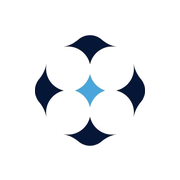
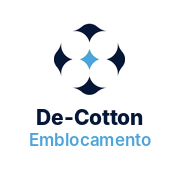
Ícone com De-Cotton / Emblocamento
Claude-Session: https://claude.ai/code/session_01Nmf84eCDdGJfLBLhLhZPr3

Changed region(s): [[0.1667, 0.3611, 0.8611, 0.8333], [0.2778, 0.1111, 0.6944, 0.4167]]

diff --git a/index.html b/index.html
@@ -78,7 +78,7 @@ main{padding:12px;max-width:640px;margin:0 auto;padding-bottom:40px}
 </style>
 </head>
 <body>
-<header><h1><img src="icon-180.png" alt="" class="hlogo">Emblocamento<small id="hSub">Sem pacote carregado</small></h1><button class="hb" id="bMenu" type="button">☰ Menu</button>
+<header><h1><img src="logo.png" alt="" class="hlogo">Emblocamento<small id="hSub">Sem pacote carregado</small></h1><button class="hb" id="bMenu" type="button">☰ Menu</button>
 <div id="sbar" class="sbar hide"><input class="scan" id="scan" autocomplete="off" autocorrect="off" spellcheck="false" inputmode="numeric" enterkeyhint="go" placeholder="Aguardando leitura…"><button class="sb" id="bAbc" type="button" title="Trocar teclado">ABC</button><button class="sb" id="bGo" type="button">OK</button><button class="sb pri" id="bCam" type="button" title="Câmera">📷</button></div></header>
 <main id="app"></main>
 <input type="file" id="fPac" accept=".txt,.json,text/plain,application/json" hidden>
@@ -89,7 +89,7 @@ main{padding:12px;max-width:640px;margin:0 auto;padding-bottom:40px}
 // Carrega o "pacote" gerado no app principal, confere cada fardinho lido
 // contra o lote do box, conta e devolve as leituras em arquivo.
 // ======================================================================
-const VER="1.6.2";
+const VER="1.6.3";
 const $=s=>document.querySelector(s);
 const esc=v=>String(v??"").replace(/[&<>"']/g,c=>({"&":"&amp;","<":"&lt;",">":"&gt;",'"':"&quot;","'":"&#39;"}[c]));
 const fmt=n=>n==null?"—":Number(n).toLocaleString("pt-BR");

diff --git a/sw.js b/sw.js
@@ -1,6 +1,6 @@
 // Service worker: deixa o app e o leitor de códigos disponíveis sem internet
-const CACHE="emblocamento-v13";
-const SHELL=["./","./index.html","./manifest.webmanifest","./icon-192.png","./icon-512.png","./icon-180.png"];
+const CACHE="emblocamento-v14";
+const SHELL=["./","./index.html","./manifest.webmanifest","./icon-192.png","./icon-512.png","./icon-180.png","./logo.png"];
 const EXT=["https://cdn.jsdelivr.net/npm/zxing-wasm@2.2.4/dist/iife/reader/index.js","https://cdn.jsdelivr.net/npm/zxing-wasm@2.2.4/dist/reader/zxing_reader.wasm"];
 self.addEventListener("install",e=>{e.waitUntil((async()=>{const c=await caches.open(CACHE);await c.addAll(SHELL);
   for(const u of EXT){try{const r=await fetch(u,{mode:"cors"});if(r.ok)await c.put(u,r)}catch(err){}}self.skipWaiting()})())});
